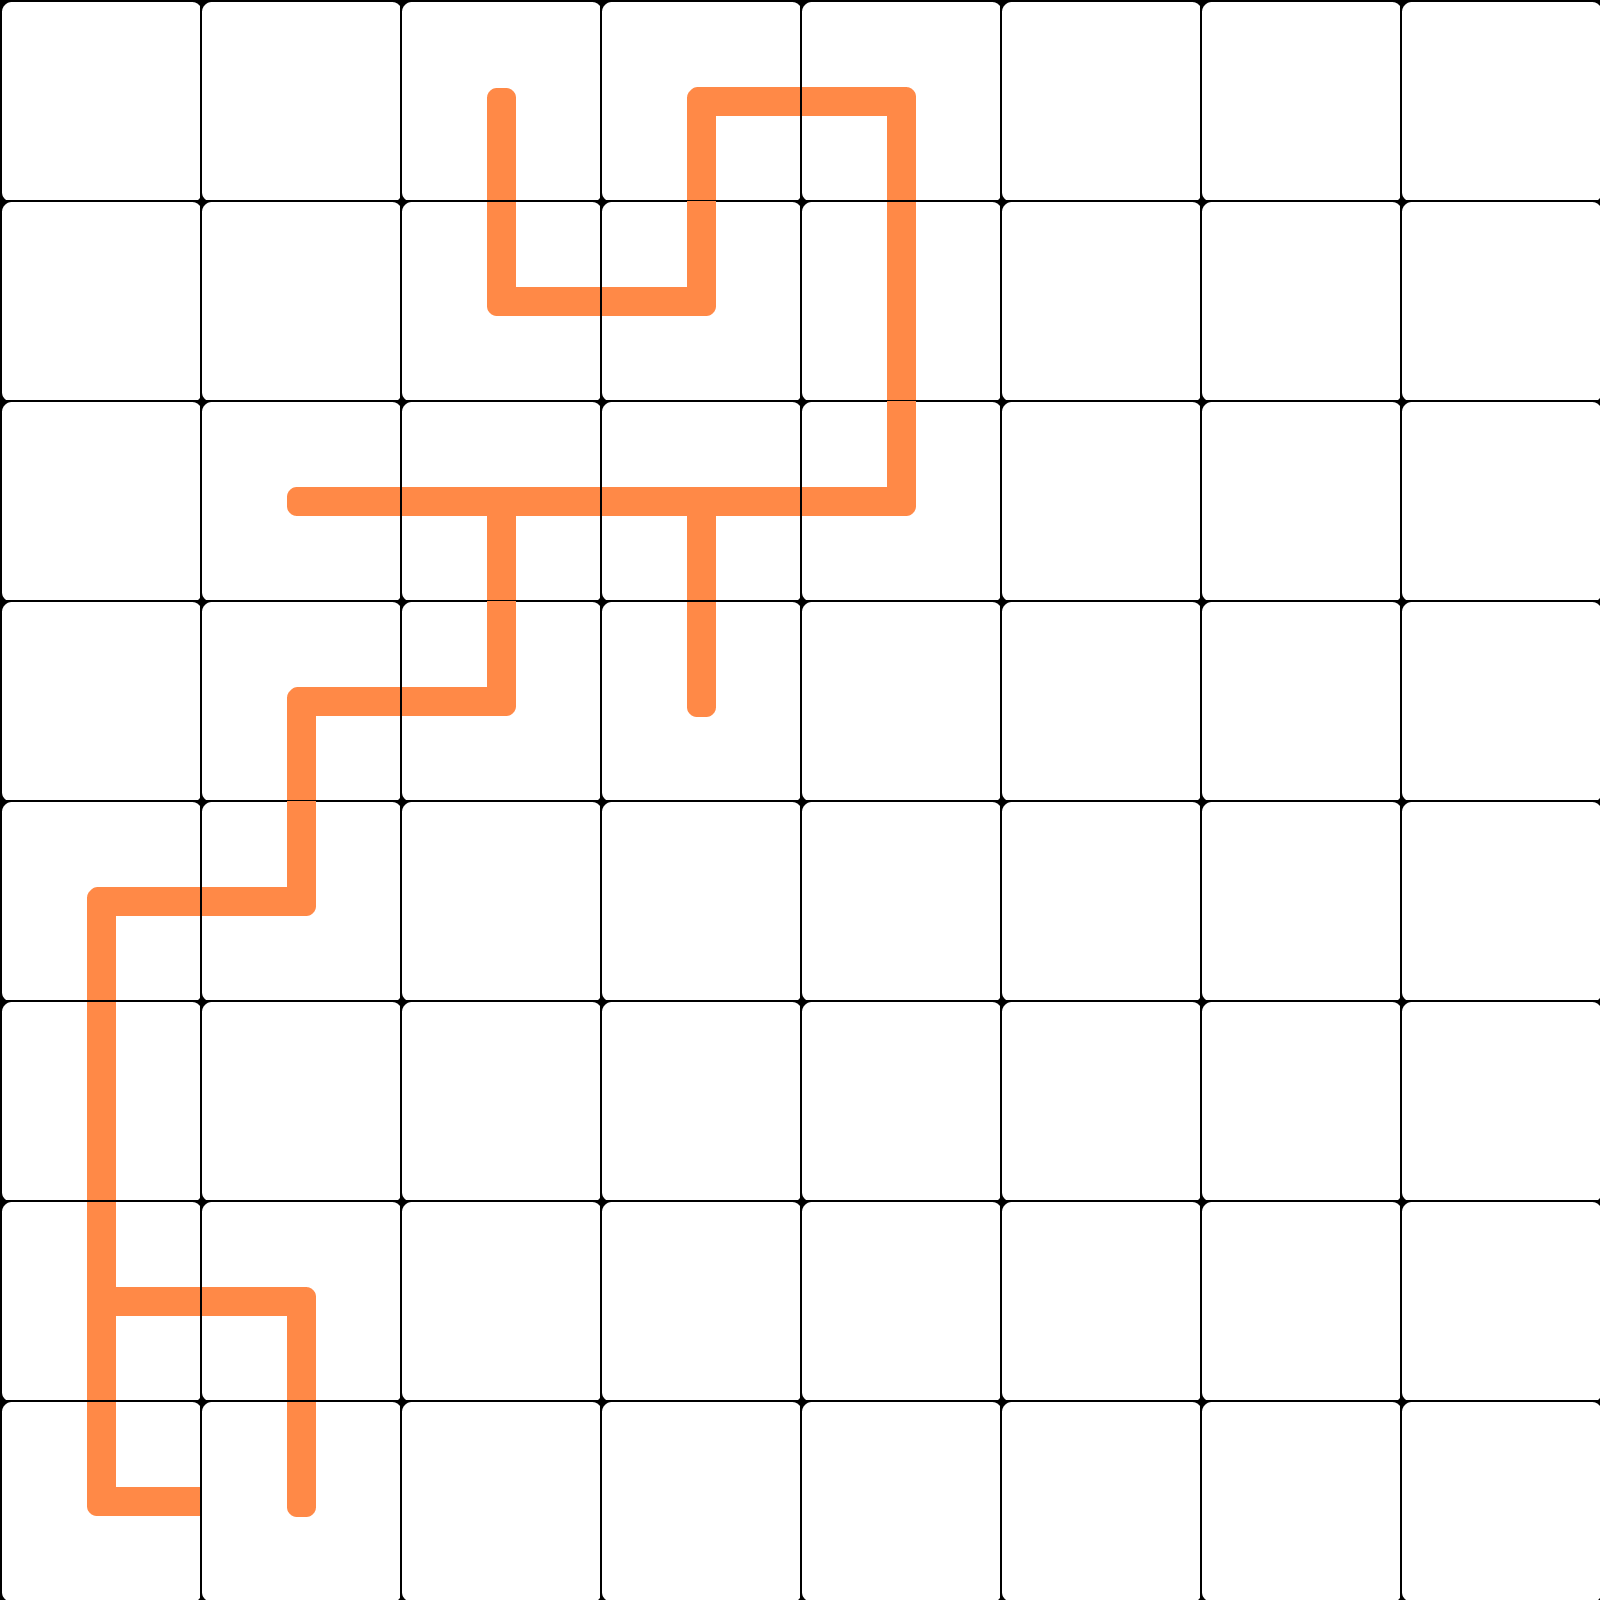
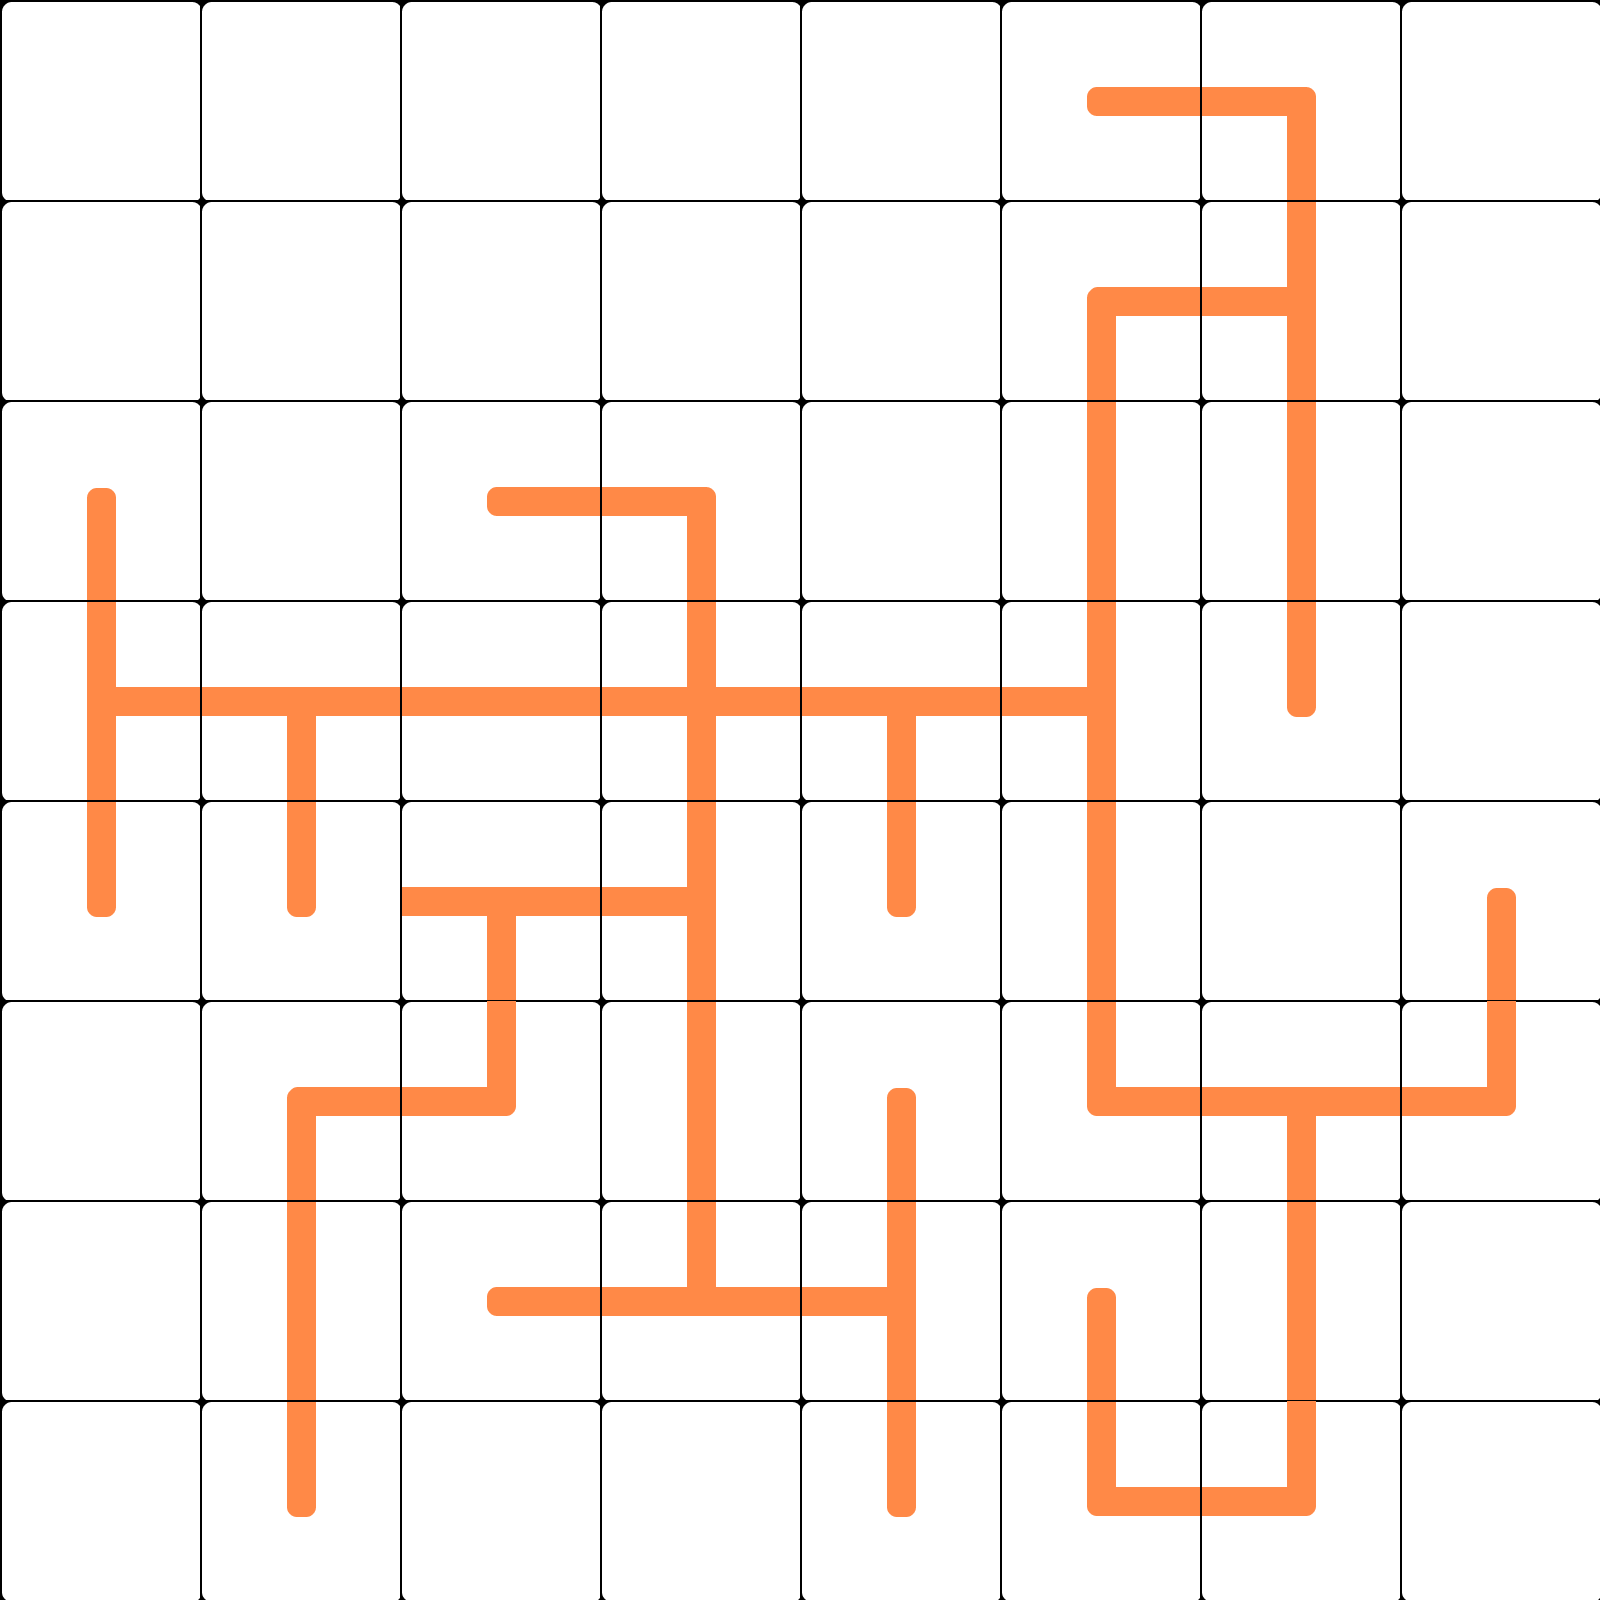
moving

Changed region(s): [[0.0312, 0.0312, 0.9688, 0.9688], [0.2812, 0.0312, 0.5938, 0.3438]]

diff --git a/AHC011/TreeConstructor.swift b/AHC011/TreeConstructor.swift
@@ -11,43 +11,40 @@ final class TreeConstructorV1: TreeConstructor {
     }
     
     func construct() -> Board {
-        var allTiles: [Tile] = initialBoard.allTiles
-        allTiles.shuffle()
-        var used: [Bool] = [Bool](repeating: false, count: allTiles.count)
+        var tileCounts: [Int] = initialBoard.countTiles()
         let resultBoard = Board(n: initialBoard.n)
         
         let start = Pos(x: 3, y: 3)
-        // O(n)
-        resultBoard.place(at: start, tile: allTiles.removeFirst(), force: true)
+        resultBoard.place(at: start, tile: Tile(rawValue: 15)!, force: true)
+        tileCounts[15] -= 1
         
         var allPositions: [Pos] = [start]
         var seen: [[Bool]] = [[Bool]](repeating: [Bool](repeating: false, count: resultBoard.n), count: resultBoard.n)
+        
+        // just for first case
+        seen[start.y][start.x] = true
         
         for _ in 0 ..< 1000 {
             guard let pos = allPositions.first else {
                 IO.log("No more positions, pos count: \(allPositions.count)", type: .warn)
                 break
             }
-
-            // just for first case
-            seen[pos.y][pos.x] = true
             
             for dir in Dir.all {
                 let nextPos = pos + dir.pos
                 guard nextPos.isValid(boardSize: resultBoard.n) else { continue }
-                for (i, tile) in allTiles.enumerated() {
-                    guard !used[i] else { continue }
-                    // don't allow to end create tree
-                    if tile.rawValue.nonzeroBitCount == 1 && allPositions.count == 1 {
-                        continue
-                    }
-                    if resultBoard.isPlaceable(at: nextPos, tile: tile) {
+
+                for _ in 0 ..< 100 {
+                    let rawValue = Int.random(in: 1..<16)
+                    if let tile = Tile(rawValue: rawValue),
+                       tile.isDir(dir: dir.rev) && tileCounts[rawValue] > 0,
+                       resultBoard.isPlaceable(at: nextPos, tile: tile) {
                         resultBoard.place(at: nextPos, tile: tile, force: true)
+                        tileCounts[rawValue] -= 1
                         if !seen[nextPos.y][nextPos.x] {
                             // prevent appending newPos again
                             seen[nextPos.y][nextPos.x] = true
                             allPositions.append(nextPos)
-                            used[i] = true
                         }
                         break
                     }
@@ -56,10 +53,14 @@ final class TreeConstructorV1: TreeConstructor {
 
             // O(n)
             allPositions.removeFirst()
-            allTiles.removeFirst()
         }
         
+        // find muda tile, and replace if possible
+        
+        // replace tile that will extend the tree
+        
         resultBoard.log()
+        IO.log(tileCounts)
         return resultBoard
     }
 }
